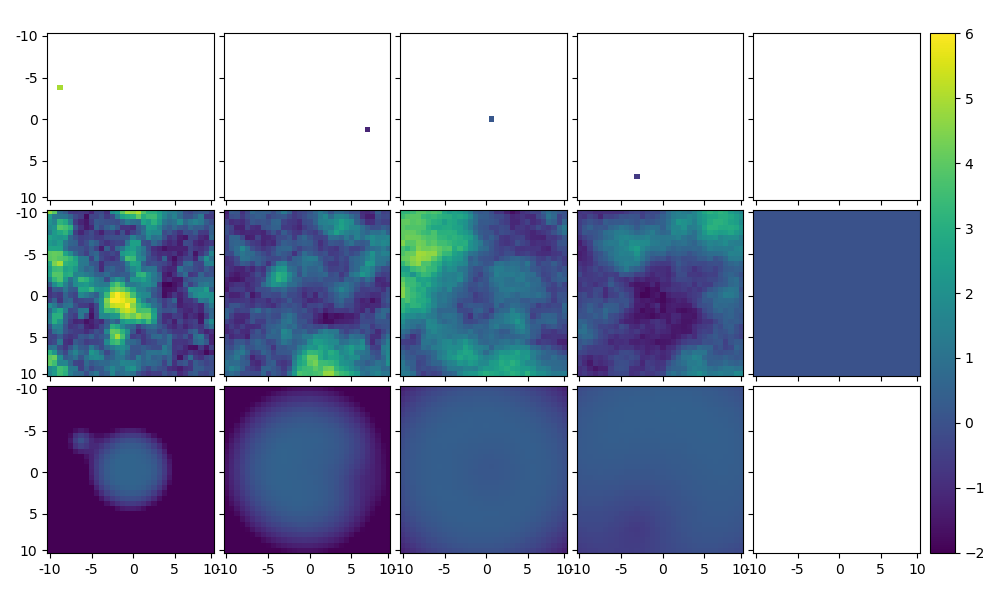
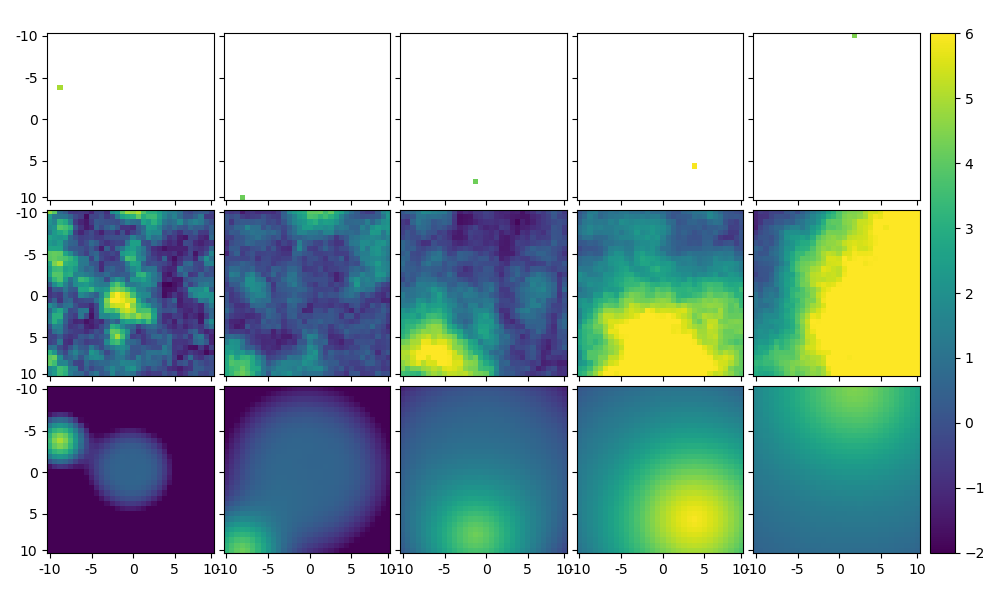
add conditional mean fields obs 1 range 1-5 obs 2 range 1

Changed region(s): [[0.217, 0.33, 0.93, 0.93], [0.217, 0.81, 0.341, 0.93], [0.031, 0.69, 0.093, 0.78]]

diff --git a/brown_resnick/sde_diffusion/masked/unparameterized_masked_score/evaluation/paper_figures/paper_ks_statistic_visualization.py b/brown_resnick/sde_diffusion/masked/unparameterized_masked_score/evaluation/paper_figures/paper_ks_statistic_visualization.py
@@ -7,30 +7,30 @@ import torch as th
 evaluation_folder = append_directory(2)
 
 
-def visualize_ks_statistic_multiple_ranges(range_values, smooth, bins, figname, nrep, obs):
-    
-    extremal_matrices = np.zeros((len(range_values), (bins+1),3))
-    fcs_extremal_matrices = np.zeros((len(range_values), (bins+1),3))
-    for i in range(len(range_values)):
+def visualize_ks_statistic_multiple_ranges(obs):
 
-        extremal_matrices[i,:,:] = load_numpy_file((evaluation_folder + "/extremal_coefficient_and_high_dimensional_metrics/data/true/extremal_coefficient_range_"
-                                                    + str(range_values[i]) + "_smooth_" + str(smooth) + "_nbins_" + str(bins) + "_" + str(nrep) + ".npy"))
-        fcs_extremal_matrices[i,:,:] = load_numpy_file((evaluation_folder + "/extremal_coefficient_and_high_dimensional_metrics/data/fcs/extremal_coefficient_fcs_range_" + str(range_values[i]) + "_smooth_" + str(smooth) 
-                                            + "_nugget_1e5_obs_" + str(obs) + "_" + str(nrep) + ".npy"))
+    figname = "figures/paper_fcs_vs_true_ks_obs_"+str(obs) + "_range_1_5_smooth_1.5_nugget_1e5.png"
+    n = 32
+    nrep = 4000
+    range_values = [float(i) for i in range(1,6)]
+    ks_statistics = np.load((evaluation_folder + "/extremal_coefficient_and_high_dimensional_metrics/data/fcs/ks_gof_statistic_obs_1_7_range_1_5_smooth_1.5_nugget_1e5.npy"))
+    fig = plt.figure(figsize=(10,2))
+    grid = ImageGrid(fig, 111,  # similar to subplot(111)
+                 nrows_ncols=(1, 5),  # creates 2x2 grid of Axes
+                 axes_pad=0.1,  # pad between Axes in inch.
+                 cbar_mode="single"
+                 )
 
-    fig, axes = plt.subplots(figsize=(10,2.5), nrows = 1, ncols = 5, sharey=True)
-    h = extremal_matrices[0,:,0]
+    for i, ax in enumerate(grid):
 
-    for i in range(len(range_values)):
-
-        ext_coeff = 2-extremal_matrices[i,:,2]
-        fcs_ext_coeff = 2-fcs_extremal_matrices[i,:,2]
-        axes[i].plot(h, ext_coeff, "blue")
-        axes[i].plot(h, fcs_ext_coeff, "purple", linestyle = "dashed")
-        axes[i].set_xlabel("Distance Lag (h)")
-        axes[i].set_ylabel("2-Extremal Coefficient")
-        axes[i].legend(labels = ['true', 'FCS'])
+        im = ax.imshow(ks_statistics[i,(obs-1),:,:], vmin = 0, vmax = 1)
+        ax.set_xticks(ticks = [0, 8, 16, 24, 31], labels = np.array([-10,-5,0,5,10]))
+        ax.set_yticks(ticks = [0, 8, 16, 24, 31], labels = np.array([-10,-5,0,5,10]))
     
     #fig.text(0.3, .9, "Extremal Coefficient", fontsize = 15)
+    ax.cax.colorbar(im)
     plt.tight_layout()
     plt.savefig(figname)
+
+obs = 5
+visualize_ks_statistic_multiple_ranges(obs)

diff --git a/brown_resnick/sde_diffusion/masked/unparameterized_masked_score/evaluation/fcs/fcs_conditional_mean_field.py b/brown_resnick/sde_diffusion/masked/unparameterized_masked_score/evaluation/fcs/fcs_conditional_mean_field.py
@@ -17,7 +17,7 @@ def visualize_conditional_mean_observed_and_fcs(figname, m):
     reference_images = np.zeros((5,n,n))
     masks = np.zeros((5,n,n))
     range_values = [1.0,2.0,3.0,4.0,5.0]
-    for i in range(0, 4):
+    for i in range(0, 5):
         ref_folder = (fcs_folder + "/data/model4/obs" + str(m) + "/ref_image" + str(i))
         masks[i,:,:] = np.load((ref_folder + "/mask.npy"))
         fcs_images[i,:,:,:] = np.load((ref_folder + "/processed_log_scale_fcs_range_" + str(range_values[i]) +
@@ -45,7 +45,7 @@ def visualize_conditional_mean_observed_and_fcs(figname, m):
                            )
             ax.set_xticks(ticks = [0, 8, 16, 24, 31], labels = np.array([-10,-5,0,5,10]))
             ax.set_yticks(ticks = [0, 8, 16, 24, 31], labels = np.array([-10,-5,0,5,10]))
-        elif(i < 14):
+        elif(i < 15):
             im = ax.imshow(fcs_conditional_means[(i % 5),:,:], cmap='viridis', vmin = -2, vmax = 6)
             ax.set_xticks(ticks = [0, 8, 16, 24, 31], labels = np.array([-10,-5,0,5,10]))
             ax.set_yticks(ticks = [0, 8, 16, 24, 31], labels = np.array([-10,-5,0,5,10]))

diff --git a/brown_resnick/sde_diffusion/masked/unparameterized_masked_score/evaluation/fcs/fcs_process.py b/brown_resnick/sde_diffusion/masked/unparameterized_masked_score/evaluation/fcs/fcs_process.py
@@ -56,13 +56,13 @@ def process_unconditional_fcs_file_with_variables():
 
 def process_conditional_fcs():          
     m = 1
-    range_value = 1.0
+    range_value = 5
     nrep = 4000
-    ref_folder = "data/model4/obs" + str(m) + "/ref_image" + str(int(range_value-1))
+    ref_folder = "data/model4/obs" + str(m) + "/ref_image" + str(range_value-1)
     fcs_file = "fcs_range_" + str(range_value) + "_smooth_1.5_nugget_1e5_obs_" + str(m) + "_" + str(nrep) + ".npy"
     processed_fcs_file = "processed_log_scale_fcs_range_" + str(range_value) + "_smooth_1.5_nugget_1e5_obs_" + str(m) + "_" + str(nrep) + ".npy"
     n = 32
     mask_file = "mask.npy"
     process_fcs_file(ref_folder, mask_file, fcs_file, processed_fcs_file, nrep, n)
 
-process_unconditional_fcs_file_with_variables()
+process_conditional_fcs()
